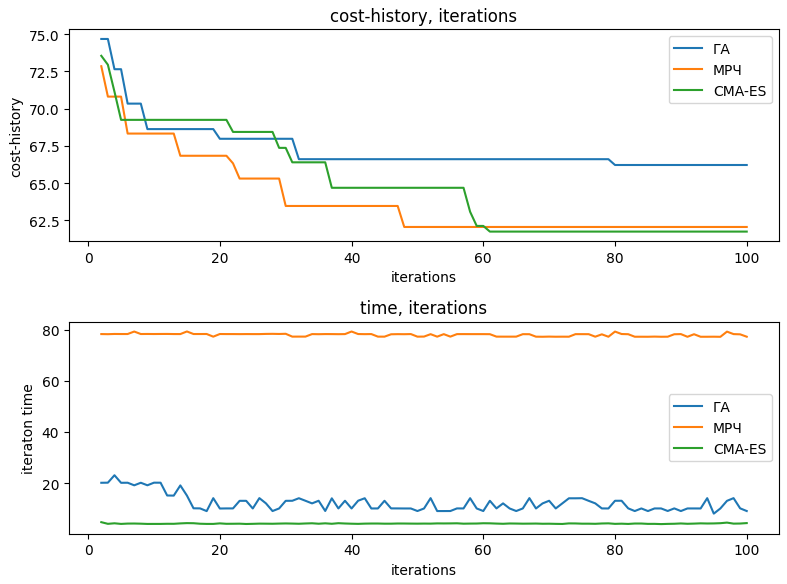
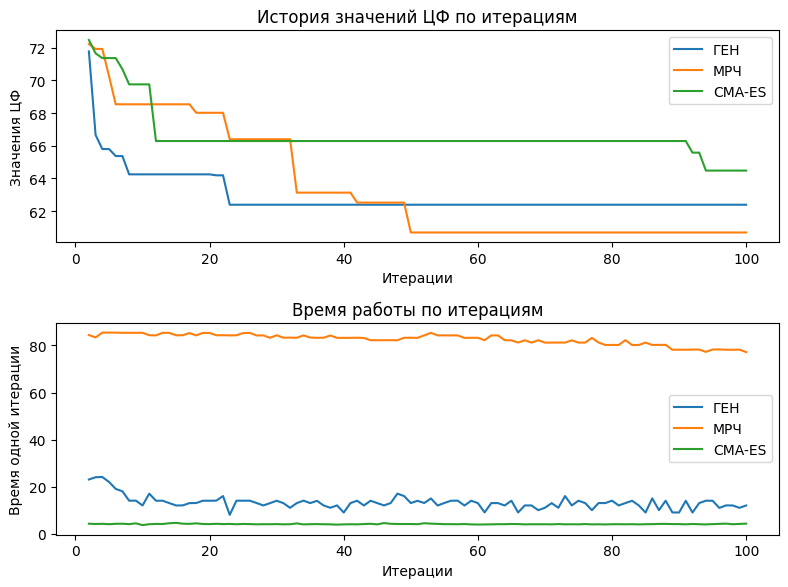
practice done

diff --git a/vkr/my_folder/tex/tab-opt-res.tex b/vkr/my_folder/tex/tab-opt-res.tex
@@ -8,24 +8,27 @@
 	\hline
 	Наз. алг.&$X_{opt}$&$f(X_{opt})$&$I$&$N_{f}$&$T_{\text{общ}}$&$T_{i}$&$N_{e}$\\
 	\hline
-	CMA-ES&[56, 42, 20, 39, 44, 36]&62.27&250&2250&1004.66&4.02&5234\\ \hline
-	CMA-ES&[55, 33, 30, 28, 51, 38]&65.89&250&2250&1003.51&4.01&5183\\ \hline
-	CMA-ES&[66, 32, 20, 28, 51, 40]&63.58&250&2250&971.32&3.89&4813\\ \hline
-	CMA-ES&[53, 44, 21, 40, 45, 34]&62.83&250&2250&996.4&3.99&5245\\ \hline
-	CMA-ES&[53, 40, 25, 31, 36, 34]&64.8&250&2250&992.18&3.97&5418\\ \hline
-	CMA-ES&[49, 39, 30, 41, 37, 39]&61.74&100&900&415.84&4.16&5418\\ \hline
-
-	ГА&[51, 38, 29, 37, 53, 41]&63.77&250&2824&1308.51&5.23&5485\\ \hline
-	ГА&[61, 45, 23, 39, 56, 35]&67.25&250&2883&1387.61&5.55&5405\\ \hline
-	ГА&[58, 32, 23, 32, 45, 40]&64.86&250&2722&1299.08&5.2&5273\\ \hline
-	ГА&[65, 55, 35, 55, 52, 49]&66.76&250&3071&1504.23&6.02&5668\\ \hline
-	ГА&[58, 40, 20, 57, 54, 57]&65.73&250&2362&1207.57&4.83&5452\\ \hline
-	ГА&[62, 40, 21, 47, 33, 37]&66.93&100&2356&970.02&9.7&5311\\ \hline
-
-	МРЧ&[56, 38, 24, 50, 24, 44]&63.96&50&10150&3907.05&78.14&5060\\ \hline
-	МРЧ&[50, 41, 27, 40, 39, 38]&61.07&50&10150&3888.8&77.78&5658\\ \hline
-	МРЧ&[51, 37, 30, 42, 39, 37]&60.4&50&10150&3908.44&78.17&5657\\ \hline
-	МРЧ&[49, 40, 29, 43, 50, 38]&62.05&100&20300&7799.8&78.0&5699\\ \hline
+	CMA-ES&[57, 43, 20, 42, 39, 36]&64.48&100&900&415.64&4.16&5506\\ \hline
+	CMA-ES&[55, 37, 26, 33, 42, 34]&64.27&125&1125&509.29&4.07&5505\\ \hline
+	CMA-ES&[58, 40, 20, 41, 41, 37]&62.62&125&1125&501.25&4.01&5376\\ \hline
+	CMA-ES&[53, 39, 26, 42, 37, 38]&61.27&125&1125&519.67&4.16&5653\\ \hline
+	CMA-ES&[59, 37, 22, 34, 37, 32]&63.85&250&2250&1004.94&4.02&5472\\ \hline
+	CMA-ES&[58, 40, 20, 39, 32, 34]&65.36&250&2250&998.58&3.99&5314\\ \hline
+	CMA-ES&[56, 35, 27, 25, 41, 38]&65.12&250&2250&985.96&3.94&5186\\ \hline
+	ГЕН&[51, 38, 29, 32, 47, 40]&62.39&100&3281&1372.01&13.72&5407 \\ \hline
+	ГЕН&[55, 43, 20, 52, 27, 38]&64.05&100&2945&1221.41&12.21&5114\\ \hline
+	ГЕН&[60, 37, 21, 37, 37, 43]&63.83&100&3108&1281.66&12.82&5305\\ \hline
+	ГЕН&[51, 34, 33, 39, 41, 37]&63.69&250&7545&3298.57&13.19&5624\\ \hline
+	ГЕН&[57, 35, 23, 40, 38, 39]&64.75&250&7851&3305.79&13.22&5470\\ \hline
+	ГЕН&[55, 34, 29, 29, 45, 43]&62.75&250&7568&3162.45&12.65&5295\\ \hline
+	ГЕН&[58, 40, 20, 28, 47, 42]&62.77&300&8076&3396.7&11.32&5066\\ \hline
+	МРЧ&[53, 39, 26, 28, 48, 43]&61.23&50&10150&3932.94&78.66&5221\\ \hline
+	МРЧ&[50, 39, 29, 49, 34, 35]&60.04&50&10150&3917.7&78.35&5602\\ \hline
+	МРЧ&[48, 42, 28, 50, 29, 39]&61.56&50&10150&3922.45&78.45&5358\\ \hline
+	МРЧ&[52, 38, 28, 41, 39, 38]&60.2&75&15225&5881.12&78.41&5636\\ \hline
+	МРЧ&[48, 38, 32, 46, 34, 38]&60.67&75&15225&6037.65&80.5&5581\\ \hline
+	МРЧ&[55, 37, 26, 41, 41, 36]&60.16&75&15225&6262.81&83.5&5684\\ \hline
+	МРЧ&[50, 38, 30, 51, 27, 40]&60.69&100&20300&8263.69&82.64&5252\\ \hline		
 	\end{tabular}
 \vspace{\mfloatsep} % интервал 
 \normalsize %восстанавливаем шрифт 	

diff --git a/vkr/my_folder/chapter5.tex b/vkr/my_folder/chapter5.tex
@@ -41,12 +41,13 @@
 	\item $N_{e}$ - количество машин, к концу симуляции завершивших намеченные маршруты.
 \end{itemize}
 Заметим, что на основе паспортов СО длительности фаз выглядят следующим образом:\begin{equation}
-	X_{src} = [65, 35, 20, 40, 22, 34], \ f(X_{src}) = 73.72, \ N_{e} = 4748\label{eq:src}
+	X_{src} = [65, 35, 20, 40, 22, 34], \ f(X_{src}) = 73.42, \ N_{e} = 4767\label{eq:src}
 \end{equation}
-Количество машин, предзагруженных в симуляцию на основе данных с детекторов, $N_c = 5989$.\\
+Количество машин, предзагруженных в симуляцию на основе данных с детекторов, $N_c = 5959$.\\
 Временной интервал симуляции: 06:00-09:00, время по счётчику SUMO --begin 0 --end 10800 (3ч).\\
 \input{my_folder/tex/tab-opt-res.tex}
 \input{my_folder/tex/plot-hist-opt.tex}
+\newpage
 \section{Выводы} \label{ch4:conclusion}
 
 По \taref{tab:opt-res} естественно заметить, что от эксперимента к эксперименту количество  хромосом, частиц, решений могло меняться для ГА, МРЧ, CMA-ES соответственно. Без потери смысловой нагрузки произведем сравнение подсчётов ЦФ в алгоритмах.\\
@@ -65,25 +66,30 @@
 Гиперпараметры CMA-ES при запуске:
 \begin{itemize}
 	\item $\sigma_0 = 5$.
-	\item $X_0 = [65, 35, 20, 40, 22, 34]$.
+	\item $X_0 = [65, 35, 20, 40, 22, 34]$. Здесь $X_0$ - начальное решение.
 \end{itemize}
 Из \taref{tab:opt-res} видно, что:
 \begin{itemize}
-	\item Лучшее решение сгенерировано алгоритмом МРЧ $f(X_{opt}) = 60.4$.
-	\item Лучшее решение МРЧ получено при установке гиперпараметров из \taref{tab:tab-pso-opt-params}.
-	\item МРЧ требует в $\approx 11.2$ раз больше подсчётов ЦФ по сравнению с CMA-ES, но выдаёт более точное решение на $2,1\%$.
+	\item Лучшее решение было получено при помощи алгоритма МРЧ $f(X_{opt}) = 60.2$
+	\item Лучшее решение МРЧ получено при установке гиперпараметров на основании \taref{tab:tab-pso-opt-params} с
+	 $50\%$ увеличением количества подсчётов ЦФ.
+	 \item Самое оптимальное решение, полученное при помощи МРЧ, требует в $\approx 13.5$ больше подсчётов ЦФ, чем самое оптимальное решение, полученное при помощи CMA-ES.
+	 \item Самое оптимальное решение, полученное при помощи МРЧ, требует в $4.64$ раз больше подсчётов ЦФ, чем самое оптимальное решение, полученное при помощи ГЕН.
+	 \item Самое оптимальное решение, полученное при помощи МРЧ, на $\approx 1.75\%$ лучше, чем самое оптимальное решение, полученное при помощи CMA-ES.
+	 \item Самое оптимальное решение, полученное при помощи МРЧ, на $\approx 3.79\%$ лучше, чем самое оптимальное решение, полученное при помощи ГЕН.
+	%\item МРЧ требует в $\approx 11.2$ раз больше подсчётов ЦФ по сравнению с CMA-ES, но выдаёт более %точное решение на $2,1\%$.
 	\item В порядке использования вычислительно-временных ресурсов алгоритмы располагаются следующим образом :
 	CMA-ES, ГА, МРЧ от лучшего к худшему.
 	\item В порядке качества полученного решения алгоритмы располагаются 
 	МРЧ, CMA-ES, ГА,  от лучшего к худшему.
 \end{itemize}
+Графики \firef{fig:ch-wd}, \firef{fig:hist-wd}, \firef{fig:hist-times-wd} построены на основании данных из \taref{tab:opt-res} при $I = 100$. График генетического алгоритма построен на данных, полученных при подсчёте ЦФ $f(X_{opt}) = 62.39$ из таблицы.\\
 \firef{fig:ch-wd} является наглядным представлением требования МРЧ большого количества вычислительных ресурсов.
-\newpage
 Результаты, полученные на выходе алгоритмов оптимизации в сравнении с \eqref{eq:src}, представляют возможность сделать следующие выводы:
 \begin{itemize}
 	\item Лучшее решение, полученное с помощью МРЧ, лучше исходного на $18 \%$.
-	\item Лучшее решение, полученное с помощью CMA-ES, лучше исходного на $ 16.2\%$.
-	\item Лучшее решение, полученное с помощью ГА, лучше исходного на $ 13.4\%$.
+	\item Лучшее решение, полученное с помощью CMA-ES, лучше исходного на $ 16.5\%$.
+	\item Лучшее решение, полученное с помощью ГА, лучше исходного на $ 15\%$.
 \end{itemize}
 %% Вспомогательные команды - Additional commands
 %

diff --git a/gen.py b/gen.py
@@ -90,7 +90,7 @@ def main(argv):
         gene_type = int
         gene_space = set_gene_space(utils.net_dict.get(simulation_name))
         generation_times = [time.time(), ]
-        num_generations = 200
+        num_generations = 100
         ff_wrapper = lambda ga_instance, solution, solution_idx: fitness_func(ga_instance, 
                                                                               solution, 
                                                                               solution_idx, 
@@ -102,13 +102,13 @@ def main(argv):
                                                        folder_name=simulation_name,
                                                        times=generation_times)
         ga_instance = pygad.GA(num_generations=num_generations,
-                                num_parents_mating=24, 
+                                num_parents_mating=32, 
                                 fitness_func=ff_wrapper,
-                                sol_per_pop=48,
+                                sol_per_pop=64,
                                 num_genes=len(gene_space),
                                 gene_space=gene_space,
                                 gene_type=gene_type,
-                                parallel_processing=14,
+                                parallel_processing=12,
                                 save_best_solutions=True,
                                 mutation_type = "random",
                                 mutation_percent_genes = 10,

diff --git a/utils.py b/utils.py
@@ -92,6 +92,7 @@ def dump_data(output_path, row):
         csv_writer.writerow(row)
 
 def plot(simulation_name, plot_name):
+    annotations = {'gen': 'ГЕН', 'pso': 'МРЧ', 'cmaes': 'CMA-ES'}
     if plot_name == ch_iter_time:
         csv_data_list = []
         fig, ax = plt.subplots(2, 1, figsize=(8, 6))
@@ -103,13 +104,13 @@ def plot(simulation_name, plot_name):
             df.columns = [ch, iterations, time]
             csv_data_list.append(df)
 
-            ax[0].plot(df['iter'], df['ch'], label= f'{alg_name}')
+            ax[0].plot(df['iter'], df['ch'], label= f'{annotations[alg_name]}')
             ax[0].set_title('История значений ЦФ по итерациям')
             ax[0].set_xlabel('Итерации')
             ax[0].set_ylabel('Значения ЦФ')
             ax[0].legend()
 
-            ax[1].plot(df['iter'], df['time'], label= f'{alg_name}')
+            ax[1].plot(df['iter'], df['time'], label= f'{annotations[alg_name]}')
             ax[1].set_title('Время работы по итерациям')
             ax[1].set_xlabel('Итерации')
             ax[1].set_ylabel('Время одной итерации')

diff --git a/pso.py b/pso.py
@@ -78,7 +78,7 @@ def evaluate_particle(particle, **kwargs):
 def fitness_func(swarm, **kwargs):
     times = kwargs.get('times')
     partial_evaluate_particle = partial(evaluate_particle, **kwargs)
-    with ProcessPoolExecutor(13) as executor:
+    with ProcessPoolExecutor(12) as executor:
         fitness_values = list(executor.map(partial_evaluate_particle, swarm))
     cur_swarm_time = time.time()
     times.append(cur_swarm_time) #current swarm time logging 
@@ -94,7 +94,7 @@ def main(argv):
         lower_bounds, upper_bounds = create_bounds(utils.net_dict.get(simulation_name))
         num_variables = len(lower_bounds)
         options = {'c1': 0.5069, 'c2': 2.5524, 'w': 1.0056} #global-best-pso 
-        iters = 50
+        iters = 100
         optimizer = ps.single.GlobalBestPSO(n_particles=203, dimensions=num_variables, options=options, oh_strategy={ "w":'exp_decay', "c1":'nonlin_mod',"c2":'lin_variation'}, bounds=(lower_bounds, upper_bounds))
         ff_wrapper = lambda swarm: fitness_func(swarm=swarm, 
                                                 net_file=utils.net_dict.get(simulation_name), 

diff --git a/vkr/template_settings/common/renames.tex b/vkr/template_settings/common/renames.tex
@@ -32,7 +32,7 @@
 %Директор Высшей школы
 \newcommand{\HeadApDep}{} % заменить на краткую аббревиатуру подразделения или оставить пустым, если утверждает руководитель ОП
 %%% Консультант по нормоконтролю
-\newcommand{\ConsultantNorm}{И.О.\,Фамилия} % И. О. Фамилия консультанта по нормоконтролю. ТОЛЬКО из числа ППС!
+\newcommand{\ConsultantNorm}{Л.А.\,Арефьева} % И. О. Фамилия консультанта по нормоконтролю. ТОЛЬКО из числа ППС!
 \newcommand{\ConsultantNormDegree}{должность, степень} %   
 %%% Первый консультант
 \newcommand{\ConsultantExtraFull}{Фамилия Имя Отчетство} % Фамилия Имя Отчетство дополнительного консультанта 
@@ -53,7 +53,7 @@
 \renewcommand{\thesisTitle}{Расчет режимов работы светофорных объектов}
 \newcommand{\thesisDegree}{работа бакалавра}% дипломный проект, дипломная работа, магистерская диссертация %c 2020
 \newcommand{\thesisTitleEn}{Traffic signal setting problem solution} %2020
-\newcommand{\thesisDeadline}{20.06.2024}
+\newcommand{\thesisDeadline}{17.06.2024}
 \newcommand{\thesisStartDate}{08.10.2023}
 \newcommand{\thesisYear}{2024}
 %%

diff --git a/vkr/my_folder/title.tex b/vkr/my_folder/title.tex
@@ -89,7 +89,8 @@
 	\SupervisorJob,		  &    &             \\
 	\SupervisorDegree \SupervisorTitle
 					 	  &    & \Supervisor \\[\mfloatsep]
-	
+	Консультант  &    &  \\   	
+	по нормоконтролю  		 	  &    & \ConsultantNorm  % обязателен
 \end{tabularx} %
 
 

diff --git a/cmaes.py b/cmaes.py
@@ -74,7 +74,7 @@ def main(argv):
         sigma = 5
         #----------------------
         es = cma.CMAEvolutionStrategy(x0, sigma, opts)
-        iter_count = 150
+        iter_count = 100
         ff_partial = partial(fitness_func,
                              net_file=utils.net_dict.get(simulation_name),
                              folder_name=simulation_name,

diff --git a/vkr/My_thesis.tex b/vkr/My_thesis.tex
@@ -68,7 +68,7 @@
 %% Наличие следующих перечней не исключает расшифровку сокращения и условного обозначения при первом упоминании в тексте!
 \input{my_folder/acronyms}		         % Необязательная рубрика! Список сокращений и условных обозначений
 
-\input{my_folder/dictionary}    		 % Необязательная рубрика! Словарь терминов
+%\input{my_folder/dictionary}    		 % Необязательная рубрика! Словарь терминов
 % По порядку после Списка сокращений и условных обозначений, если есть.	
 
 

diff --git a/vkr/my_folder/conclusion.tex b/vkr/my_folder/conclusion.tex
@@ -11,4 +11,4 @@
 \end{itemize}
 была построена модель дорожного участка, смоделировано движение автомобильного трафика и исследовано влияние длительностей фаз СО на время среднее простоя автомобиля в пробке. Предложен новый вариант расстановки длительностей фаз СО, который лучше референсного на $18\%$.\\
 Также произведено сравнение эффективности работы алгоритмов оптимизации.\\
-Результаты исследования подтвердили факт скорости работы CMA-ES, позиционируемого как быстрый современный алгоритм "black-box" оптимизации. ГА представляет среднее по качеству решение при средней скорости работы. МРЧ требует, в сравнении с остальными алгоритмами оптимизации, колоссальный объем вычислительных ресурсов, которые окупаются самым точным решением.\\
+Результаты исследования подтвердили факт скорости работы CMA-ES, позиционируемого как быстрый современный алгоритм "black-box"$\ $оптимизации. ГА представляет среднее по качеству решение при средней скорости работы. МРЧ требует, в сравнении с остальными алгоритмами оптимизации, колоссальный объем вычислительных ресурсов, которые окупаются самым точным решением.\\

diff --git a/vkr/my_folder/tex/plot-hist-opt.tex b/vkr/my_folder/tex/plot-hist-opt.tex
@@ -11,7 +11,7 @@
     \includegraphics[height=0.38\textheight,valign=t]{my_folder/images//evalsall.png}
     
 \captionsetup{justification=centering} %центрировать
-\caption{Гистограмма, содержащая общее количество итераций $I$} \label{fig:hist-wd}
+\caption{Гистограмма, содержащая общее количество подсчётов ЦФ $N_f$} \label{fig:hist-wd}
 \end{figure}
 
 \begin{figure}[!htbp]

diff --git a/vkr/my_folder/tex/pseudocode-cmaes.tex b/vkr/my_folder/tex/pseudocode-cmaes.tex
@@ -3,7 +3,7 @@
 	\SetKwProg{myalg}{Algorithm}{}{} %write in 2nd agrument <<Algorithm>>, <<Procedure>> etc
 	\nonl\myalg{\algoDTestsFDSCALING}{
 		\KwInput{
-			Установить параметры $\lambda, \omega_{i = 1\ldots \lambda}, c_m, c_\sigma, d_{\sigma}, c_c, c_1$ и $c_\mu$ по таблице из \cite{HansenCmaes}
+			Установить параметры $\lambda, \omega_{i = 1\ldots \lambda}, c_m, c_\sigma, d_{\sigma}, c_c, c_1$ и $c_\mu$ по таблице из \cite{HansenCmaes}, а также подобрать $X_0$ - начальное приближение.
 		} 
 		\KwOutput{Оптимальное значение $f(X_{*})$.} 
 		Инициализировать эволюционные пути $p_\sigma = 0, p_c = 0$, матрицу ковариаций $C = I$, счётчик итераций $g=0$\;